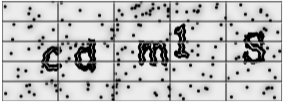
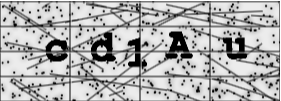
გამარტივდა პირველი ტური

diff --git a/app/Http/Controllers/NicknameController.php b/app/Http/Controllers/NicknameController.php
@@ -40,34 +40,49 @@ private function getRules(string $nickname): array
     $primes = ["11","13","17","19","23","29","31","37","41","43","47","53","59","61","67","71","73","79","83","89","97"];
 
     return [
-        
+        // ['id'=>11,'text'=>'Nickname უნდა შეიცავდეს რომაულ ციფრს (მინიმუმ 3 სიმბოლო)','passed'=>preg_match('/[IVXLCDM]{3,}/i',$nickname)],
         
         ['id'=>1,'text'=>'Nickname უნდა შეიცავდეს მინიმუმ 5 სიმბოლოს','passed'=>mb_strlen($nickname)>=5],
         ['id'=>2,'text'=>'Nickname უნდა შეიცავდეს ციფრს','passed'=>preg_match('/\d/',$nickname)],
         ['id'=>3,'text'=>'Nickname უნდა შეიცავდეს დიდ ლათინურ ასოს','passed'=>preg_match('/[A-Z]/',$nickname)],
         ['id'=>4,'text'=>'Nickname უნდა შეიცავდეს სპეციალურ სიმბოლოს','passed'=>preg_match('/[!@#$%^&*()_\-+=\[\]{};:"\\|,.<>\/?]/',$nickname)],
         ['id'=>5,'text'=>'Nickname-ში ციფრების ჯამი უნდა იყოს 15','passed'=>array_sum(array_map('intval',$numbers[0]??[]))===15],
-        ['id'=>6,'text'=>'Nickname უნდა შეიცავდეს თვეს და კვირის რომელიმე დღეს','passed'=>(function() use($nickname,$nicknameUpper,$days,$months){
-            $allDays = array_merge(...array_values($days));
-            $allDays = array_merge(array_keys($days), $allDays);
-            $allMonths = array_merge(...$months);
-            $hasDay   = collect($allDays)->contains(fn($d)=>str_contains($nicknameUpper, strtoupper($d)));
-            $hasMonth = collect($allMonths)->contains(fn($m)=>str_contains(strtolower($nickname), strtolower($m)));
-            return $hasDay && $hasMonth;
+        // ['id'=>6,'text'=>'Nickname უნდა შეიცავდეს თვეს და კვირის რომელიმე დღეს','passed'=>(function() use($nickname,$nicknameUpper,$days,$months){
+        //     $allDays = array_merge(...array_values($days));
+        //     $allDays = array_merge(array_keys($days), $allDays);
+        //     $allMonths = array_merge(...$months);
+        //     $hasDay   = collect($allDays)->contains(fn($d)=>str_contains($nicknameUpper, strtoupper($d)));
+        //     $hasMonth = collect($allMonths)->contains(fn($m)=>str_contains(strtolower($nickname), strtolower($m)));
+        //     return $hasDay && $hasMonth;
+        // })()],
+        ['id'=>7,'text'=>'Nickname უნდა შეიცავდეს ჭადრაკის ნოტაციას','passed'=>preg_match('/([a-h][1-8]|[nbrqk][a-h][1-8])/',$nickname)],
+        ['id'=>9,'text'=>'Nickname უნდა შეიცავდეს ემოჯის ან სმაილს ','passed'=>(function() use($nickname){
+            // Unicode emoji — ფართო range (standard + newer + misc symbols)
+            if (preg_match('/[\x{1F300}-\x{1FAFF}\x{2600}-\x{27BF}\x{2300}-\x{23FF}\x{2B00}-\x{2BFF}]/u', $nickname)) return true;
+            // Text emoticons: :) :( :D ;) :P :-) :-( XD <3 ^^ და სხვა
+            if (preg_match('/(?:[:;=xX8][-o*]?[\)\(DdPpOo3\[\]\/\\\\|])|(?:<3)|(?:XD|xD|x3)|(?:\^[\^_\.]\^)|(?:>[\._]<)/u', $nickname)) return true;
+            return false;
         })()],
-        ['id'=>7,'text'=>'Nickname უნდა შეიცავდეს ჭადრაკის ნოტაციას','passed'=>preg_match('/([a-h][1-8]|[nbrqk][a-h][1-8])/i',$nickname)],
-        ['id'=>9,'text'=>'Nickname უნდა შეიცავდეს ემოჯის','passed'=>preg_match('/[\x{1F300}-\x{1F9FF}]/u',$nickname)],
-        ['id'=>10,'text'=>'Nickname უნდა შეიცავდეს რომელიმე ბირთვული სახელმწიფოს ISO კოდს','passed'=>collect($nuclearCodes)->contains(fn($c)=>str_contains($nicknameUpper,$c))],
-        ['id'=>11,'text'=>'Nickname უნდა შეიცავდეს რომაულ ციფრს (მინიმუმ 3 სიმბოლო)','passed'=>preg_match('/[IVXLCDM]{3,}/i',$nickname)],
-        ['id'=>13,'text'=>'Nickname-ში ყოველი მე-4 ასო უნდა იყოს დიდი','passed'=>function() use($nickname){
+        //['id'=>10,'text'=>'Nickname უნდა შეიცავდეს რომელიმე ბირთვული სახელმწიფოს ISO კოდს','passed'=>collect($nuclearCodes)->contains(fn($c)=>str_contains($nicknameUpper,$c))],
+        ['id'=>11,'text'=>'Nickname უნდა შეიცავდეს 2-ნიშნა რომაულ ციფრს','passed'=>(function() use($nickname){
+            if (!preg_match_all('/[IVXLCDM]+/i', $nickname, $m)) return false;
+            foreach ($m[0] as $chunk) {
+                $u = strtoupper($chunk);
+                if (strlen($u) >= 2 && preg_match('/^M{0,4}(CM|CD|D?C{0,3})(XC|XL|L?X{0,3})(IX|IV|V?I{0,3})$/', $u) && $u !== '') {
+                    return true;
+                }
+            }
+            return false;
+        })()],
+        ['id'=>13,'text'=>'Nickname-ში ყოველი მე-3 ლათინური ასო უნდა იყოს დიდი','passed'=>function() use($nickname){
             $letters = preg_replace('/[^a-zA-Z]/','',$nickname);
-            if(strlen($letters)<4) return false;
-            for($i=3;$i<strlen($letters);$i+=4){
+            if(strlen($letters)<3) return true;
+            for($i=2;$i<strlen($letters);$i+=3){
                 if($letters[$i]!==strtoupper($letters[$i])) return false;
             }
             return true;
         }],
-        ['id'=>14,'text'=>'Nickname უნდა შეიცავდეს 3 ხმოვანს ზედიზედ','passed'=>preg_match('/[aeiouAEIOU]{3,}/',$nickname)],
+        // ['id'=>14,'text'=>'Nickname უნდა შეიცავდეს 3 ხმოვანს ზედიზედ','passed'=>preg_match('/[aeiouAEIOU]{3,}/',$nickname)],
         ['id'=>15,'text'=>'Nickname უნდა შეიცავდეს ათწილადს','passed'=>preg_match('/\d+\.\d+/',$nickname)],
         ['id'=>16,'text'=>'Nickname არ უნდა შეიცავდეს ქართულ ასოებს','passed'=>!preg_match('/[\x{10D0}-\x{10FF}]/u',$nickname)],
         ['id'=>17,'text'=>'Nickname არ უნდა შეიცავდეს მიმდევრობით ერთსა და იმავე სიმბოლოს 2-ზე მეტჯერ','passed'=>!preg_match('/(.)\1\1/',$nickname)],
@@ -78,14 +93,14 @@ private function getRules(string $nickname): array
                     (strtoupper($matches[2]) === 'F')
                 )
         ],
-        ['id'=>12,'text'=>'Nickname-ის სიგრძე უნდა იყოს მაქსიმუმ 35 სიმბოლო','passed'=>mb_strlen($nickname)<=35],
+        ['id'=>12,'text'=>'Nickname-ის სიგრძე უნდა იყოს მაქსიმუმ 20 სიმბოლო','passed'=>mb_strlen($nickname)<=20],
         ['id'=>19,'text'=>'Nickname უნდა შეიცავდეს ძვირფასი ლითონის ქიმიურ სიმბოლოს','passed'=>(function() use($nickname){
             $precious = ['Au','Ag','Pt','Pd','Rh','Ir','Ru','Os','Re'];
             return collect($precious)->contains(fn($s)=>str_contains($nickname,$s));
         })()],
-        ['id'=>20,'text'=>'Nickname უნდა შეიცავდეს მსუბუქი ავტომობილების სანომრე ნიშანს (ქართული სტანადარტით) ','passed'=>preg_match('/[A-Z]{2}-\d{3}-[A-Z]{2}/',$nicknameUpper)],
+        // ['id'=>20,'text'=>'Nickname უნდა შეიცავდეს მსუბუქი ავტომობილების სანომრე ნიშანს (ქართული სტანადარტით) ','passed'=>preg_match('/[A-Z]{2}-\d{3}-[A-Z]{2}/',$nicknameUpper)],
         ['id'=>21,'text'=>'Nickname-ში არ უნდა იყოს "41"','passed'=>!str_contains($nickname,'41')],
-        ['id'=>22,'text'=>'Nickname უნდა შეიცავდეს მარტივ 2 ნიშნა რიცხვს','passed'=>collect($primes)->contains(fn($p)=>str_contains($nickname,$p))],
+        //['id'=>22,'text'=>'Nickname უნდა შეიცავდეს მარტივ 2 ნიშნა რიცხვს','passed'=>collect($primes)->contains(fn($p)=>str_contains($nickname,$p))],
         ['id'=>23,'text'=>'Nickname უნდა შეიცავდეს ციფრულ დროს (12:34, 23:59)','passed'=>preg_match('/([01]?[0-9]|2[0-3]):[0-5][0-9]/',$nickname)],
         ['id'=>27,'text'=>'Nickname-ში ყველა ლათინური სიმბოლო გამოყენებული უნდა იყოს მხოლოდ ერთხელ','passed'=>(function() use($nickname){
             $letters = strtolower(preg_replace('/[^a-zA-Z]/', '', $nickname));
@@ -98,22 +113,22 @@ private function getRules(string $nickname): array
             $odd  = count(array_filter($numbers, fn($n)=>intval($n)%2!==0));
             return $even === $odd;
         }],
-        ['id'=>28,'text'=>'Nickname უნდა შეიცავდეს პოკერის სტრიტის ნოტაციას','passed'=>(function() use($nickname){
-            $upper = strtoupper($nickname);
-            $straights = ['A2345','23456','34567','45678','56789','6789T','789TJ','89TJQ','9TJQK','TJQKA'];
-            foreach($straights as $s){
-                if(str_contains($upper,$s)) return true;
-                if(str_contains($upper,strrev($s))) return true;
-            }
-            return false;
-        })()],
+        // ['id'=>28,'text'=>'Nickname უნდა შეიცავდეს პოკერის სტრიტის ნოტაციას','passed'=>(function() use($nickname){
+        //     $upper = strtoupper($nickname);
+        //     $straights = ['A2345','23456','34567','45678','56789','6789T','789TJ','89TJQ','9TJQK','TJQKA'];
+        //     foreach($straights as $s){
+        //         if(str_contains($upper,$s)) return true;
+        //         if(str_contains($upper,strrev($s))) return true;
+        //     }
+        //     return false;
+        // })()],
         ['id'=>26,'text'=>'Nickname-ში ციფრების ნამრავლი 0-ზე მეტი უნდა იყოს','passed'=>function() use($nickname){
             $numbers = preg_match_all('/\d/',$nickname,$matches) ? $matches[0] : [];
             if(empty($numbers)) return false;
             $product = array_product(array_map('intval',$numbers));
             return $product > 0;
         }],
-        ['id'=>999,'text'=>'Nickname უნდა შეიცავდეს ქაფთჩას: "cdm1S"','passed'=>str_contains($nickname,'cdm1S')]
+        ['id'=>999,'text'=>'Nickname უნდა შეიცავდეს ქაფთჩას:','passed'=>str_contains($nickname,'cd1Au')]
         
     ];
 }

diff --git a/resources/views/welcome.blade.php b/resources/views/welcome.blade.php
@@ -127,7 +127,7 @@
         margin: 0;
         padding: 0 !important;
         overflow: hidden;
-        background: #080808 !important;
+        background: #f5f5f5 !important;
         min-height: 100dvh;
         min-height: 100vh;
     }
@@ -150,7 +150,7 @@
         content: '';
         position: absolute;
         inset: -100%;
-        background-image: radial-gradient(rgba(255,255,255,0.09) 1px, transparent 1px);
+        background-image: radial-gradient(rgba(0,0,0,0.1) 1px, transparent 1px);
         background-size: 28px 28px;
         animation: gridMove 18s linear infinite;
         pointer-events: none;
@@ -175,7 +175,7 @@
     .dash-greeting {
         font-family: 'Goldman', monospace;
         font-size: clamp(0.7rem, 3.5vw, 1.4rem);
-        color: #c8c8c8;
+        color: #111;
         letter-spacing: 0.06em;
         text-align: center;
         white-space: nowrap;
@@ -187,7 +187,7 @@
     .dash-level-badge {
         font-family: 'Goldman', monospace;
         font-size: clamp(0.68rem, 2vw, 0.78rem);
-        color: #555;
+        color: #888;
         letter-spacing: 0.08em;
         text-align: center;
         margin-top: 6px;
@@ -201,8 +201,8 @@
     }
 
     .stat-card {
-        background: #111;
-        border: 1px solid #2a2a2a;
+        background: #fff;
+        border: 1px solid #e0e0e0;
         border-radius: 6px;
         padding: 16px 10px;
         text-align: center;
@@ -214,7 +214,7 @@
     .stat-value {
         font-family: 'Goldman', monospace;
         font-size: clamp(1.2rem, 4vw, 1.8rem);
-        color: #d8d8d8;
+        color: #111;
         letter-spacing: 0.04em;
         line-height: 1;
     }
@@ -222,7 +222,7 @@
     .stat-label {
         font-family: 'Goldman', monospace;
         font-size: clamp(0.58rem, 1.8vw, 0.68rem);
-        color: #666;
+        color: #999;
         letter-spacing: 0.08em;
         text-transform: uppercase;
         line-height: 1.5;
@@ -236,14 +236,14 @@
         font-family: 'Goldman', monospace;
         font-size: clamp(0.75rem, 2.5vw, 0.85rem);
         letter-spacing: 0.1em;
-        color: #c8c8c8;
+        color: #333;
         background: transparent;
-        border: 1px solid #2a2a2a;
+        border: 1px solid #ccc;
         border-radius: 3px;
         text-decoration: none;
         transition: color 0.2s, border-color 0.2s;
     }
-    .dash-continue:hover { color: #fff; border-color: #555; }
+    .dash-continue:hover { color: #000; border-color: #888; }
 </style>
 
 <div class="dash-hero">

diff --git a/resources/views/layouts/navigation.blade.php b/resources/views/layouts/navigation.blade.php
@@ -295,6 +295,12 @@
                     L{{ $myLevel }}
                 </span>
 
+                @if($currentPageLevel !== null)
+                <button onclick="restartLevel({{ $currentPageLevel }})" class="nav-link-item" style="background:none;border:none;cursor:pointer;color:rgba(255,255,255,0.4);font-size:0.7rem;font-family:'Goldman',monospace;letter-spacing:0.05em;" title="თავიდან დაწყება">
+                    ↺ თავიდან
+                </button>
+                @endif
+
                 @if(auth()->user()->isAdmin())
                 <a class="nav-link-item text-danger fw-bold" href="{{ route('admin.panel') }}">
                     <i class="bi bi-shield-lock-fill"></i>
@@ -361,6 +367,13 @@
 
         <div class="nav-collapse-divider"></div>
 
+        @if($currentPageLevel !== null)
+        <button onclick="restartLevel({{ $currentPageLevel }})" class="nav-collapse-item" style="background:none;border:none;cursor:pointer;font-size:0.8rem;">
+            ↺ თავიდან დაწყება
+        </button>
+        <div class="nav-collapse-divider"></div>
+        @endif
+
         @if(auth()->user()->isAdmin())
         <a class="nav-collapse-item text-danger" href="{{ route('admin.panel') }}" style="font-size:0.8rem;">
             <i class="bi bi-shield-lock-fill"></i> ადმინი
@@ -379,6 +392,13 @@
 </nav>
 
 <script>
+function restartLevel(level) {
+    localStorage.removeItem('level' + level + '_captcha_step');
+    localStorage.removeItem('nickname_draft_level' + level);
+    document.querySelectorAll('input, textarea').forEach(function(el) { el.value = ''; });
+    window.location.replace(window.location.pathname);
+}
+
 function toggleStepper() {
     const panel  = document.getElementById('stepperPanel');
     const toggle = document.getElementById('levelsToggle');

diff --git a/app/Http/Controllers/CaptchaController.php b/app/Http/Controllers/CaptchaController.php
@@ -31,13 +31,13 @@ class CaptchaController extends Controller
         $question = Question::where('level', 2)->firstOrFail();
 
         return view('levels.level2', [
-            'question' => $question,
+            'question'        => $question,
             'standardCaptcha' => $standardCaptcha,
-            'selectionCaptcha' => $selectionCaptcha,
+            'selectionCaptcha'=> $selectionCaptcha,
             'georgianCaptcha' => $georgianCaptcha,
             'rotatingCaptcha' => $rotatingCaptcha,
-            'userLevel' => $user->level,
-            'level' => 2
+            'userLevel'       => $user->level,
+            'level'           => 2,
         ]);
     }
 
@@ -63,10 +63,7 @@ class CaptchaController extends Controller
         if (!$success) {
             return response()->json([
                 'success' => false,
-                'debug' => [
-                    'input' => $input,
-                    'expected' => $expected
-                ]
+                'debug' => ['input' => $input, 'expected' => $expected]
             ]);
         }
 
@@ -75,11 +72,7 @@ class CaptchaController extends Controller
             if ($user->level < 3) {
                 $user->update(['level' => 3]);
             }
-
-            return response()->json([
-                'success' => true,
-                'newLevel' => 3
-            ]);
+            return response()->json(['success' => true, 'newLevel' => 3]);
         }
 
         return response()->json(['success' => true]);

diff --git a/resources/views/levels/level1.blade.php b/resources/views/levels/level1.blade.php
@@ -97,7 +97,7 @@
         <div class="nickname-wrap mt-2">
           <div id="nicknameInput" contenteditable="true" spellcheck="false" autocorrect="off" autocomplete="off"></div>
         </div>
-        <div id="charCounter" class="text-muted mt-1" style="display:none;">0/35</div>
+        <div id="charCounter" class="text-muted mt-1" style="display:none;">0/20</div>
         <div id="rulesContainer" class="rules-scroll"></div>
       </div>
     </div>
@@ -361,17 +361,14 @@ nicknameInput.addEventListener('input', async () => {
 
   const len = [...getNicknameText()].length;
   const rule12 = allRules.find(r => r.id === 12);
-  const hasRule12 = rule12 && activeRuleIds.includes(12);
+  const hasRule12 = rule12 && activeRuleIds.includes(12) && !rule12.passed;
 
-  if (hasRule12) {
-    charCounter.textContent = `${len}/35`;
-    if (charCounter.style.display === 'none') {
-      charCounter.style.display = 'block';
-      setTimeout(() => { charCounter.style.opacity = '1'; }, 10);
-    }
-  } else if (charCounter.style.display !== 'none') {
-    charCounter.style.opacity = '0';
-    setTimeout(() => { charCounter.style.display = 'none'; }, 300);
+  if (hasRule12 && charCounter.style.display === 'none') {
+    charCounter.style.display = 'block';
+    setTimeout(() => { charCounter.style.opacity = '1'; }, 10);
+  }
+  if (charCounter.style.display !== 'none') {
+    charCounter.textContent = `${len}/20`;
   }
 });
 

diff --git a/resources/views/admin/panel.blade.php b/resources/views/admin/panel.blade.php
@@ -539,5 +539,7 @@ function changeRole(userId, userName, currentRole) {
         });
     });
 }
+
+
 </script>
 @endsection